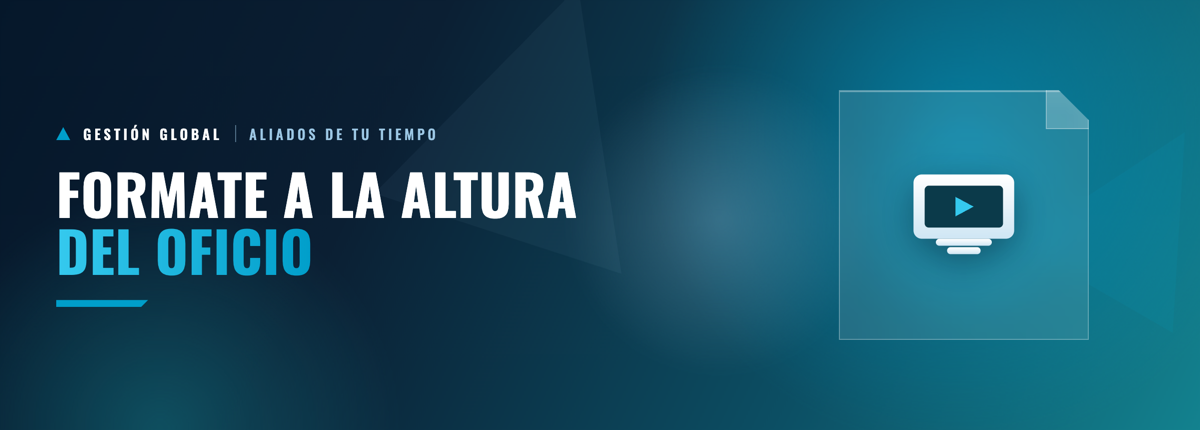
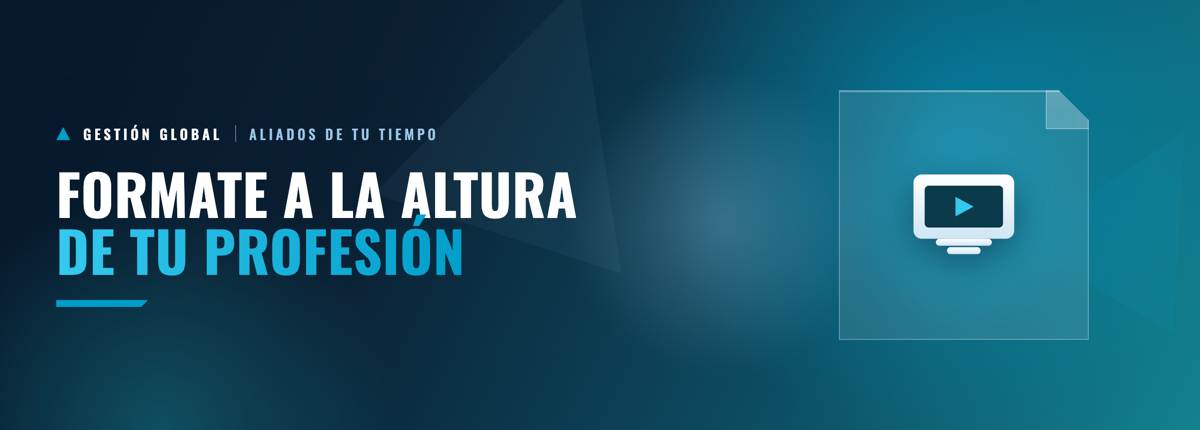
feat (DGG-220): ajustes de copy — negritas + "profesión" + botón de WhatsApp (GATED)
Pedido de Pablo sobre los 7 mails de captación (sigue GATED, para revisión):
- Negritas en nombre, vencimiento/días y 1-2 expresiones clave por mail
  (<strong>, sin recargar).
- "oficio" → "profesión" en todos los textos (más jerarquía) + banner de
  campus regenerado sin "oficio" ("Formate a la altura de tu profesión").
- Botón de WhatsApp (verde, ícono wa-icon.png + "¿Lo charlamos?") con link
  api.whatsapp.com personalizado por mail (prefill según el tema). Los dos
  botones (CTA principal + WhatsApp) viven ahora en el cuerpo → se vacía
  cta_text/cta_url (sin tocar buildManaxerHtml/edge). mig 0553.

Verificado: 7 plantillas con cta vacío, botón WA + ícono, negritas, 0 "oficio"
en los cuerpos, from_casilla='general' (contacto@). Render e2e OK. Gate OFF.

Changed region(s): [[0.0925, 0.4837, 0.4008, 0.6651]]

diff --git a/knowledge-base/DECISIONES.md b/knowledge-base/DECISIONES.md
@@ -7676,6 +7676,7 @@ Pablo: captar administradores PBA que aún NO son clientes, con mailings de mark
 - **Compliance verificado por el director:** FUNDPLATA dicta el curso / GG coordina (nunca GG se atribuye el dictado); "gestionamos/acompañamos/ordenamos" el trámite, NUNCA "garantizamos la renovación"; certificado "listo para presentar"; sin números/testimonios/urgencia inventados.
 - **7 banners pro regenerados** (generador temático `gg-mail-banner-themed.mjs`) con los nuevos títulos; se **agregó el glyph `agenda`** (calendario con check cian) → la agenda ahora tiene banner propio (`dgg220-agenda.png`) en vez de reusar el de DGG-219. Los 3 de vencimiento con co-brand FUNDPLATA; los 4 de bondades sólo GG.
 - Preheader oculto agregado a cada mail (preview en inbox). Variables intactas ({{nombre}}=pila, {{fecha_vencimiento}}, {{dias_restantes}}). **Sigue GATED** — esto es para que Pablo revise textos + banners antes de activar.
+- **Ajustes de Pablo sobre el copy (mig 0553):** (1) **negritas** en {{nombre}}, vencimiento/días + 1-2 expresiones clave por mail (vía `<strong>`, sin recargar); (2) **"oficio" → "profesión"** en todos los textos + banner de campus regenerado ("Formate a la altura de tu profesión"); (3) **botón de WhatsApp** (verde, ícono `public/email/wa-icon.png` generado con `gen-wa-icon.mjs`, copy "¿Lo charlamos?") con link `api.whatsapp.com` **personalizado por mail** (prefill del mensaje según el tema). Los 2 botones (CTA principal cyan + WhatsApp) viven ahora en el `cuerpo_html_visual` → se vació `cta_text/cta_url` para que buildManaxerHtml no los duplique (sin tocar el edge). Verificado render e2e (negritas, WA, profesión, pie con baja). Sigue GATED.
 - **A · Nombres a Title Case**: `UPDATE prospectos/prospecto_padron SET nombre=initcap(btrim(regexp_replace(nombre,'\s+',' ','g')))` para `origen='padron_pba'` (idempotente, guard `IS DISTINCT FROM`). "Cambialo directamente en la lista" (Pablo). initcap preserva acentos/ñ, sin pérdida de letras. La UI dejó de usar el hack `.toLowerCase()+capitalize` y muestra `p.nombre` directo.
 - **B · Remitente `contacto@`**: las 7 plantillas `captacion-*` pasaron `from_casilla` 'cursos'→'general' (`aliasFor('general')`=contacto@ en dispatch-emails). Pablo: cursos@ es alias de contacto@ (misma casilla), prefiere el header contacto@.
 - **B · Encolado 1 mail/min**: YA existía (dispatch `THROTTLE_MS=60s` global + piso 5min/destinatario, DGG-113) — no se tocó; cubre el pedido de "un minuto entre envío y envío".
